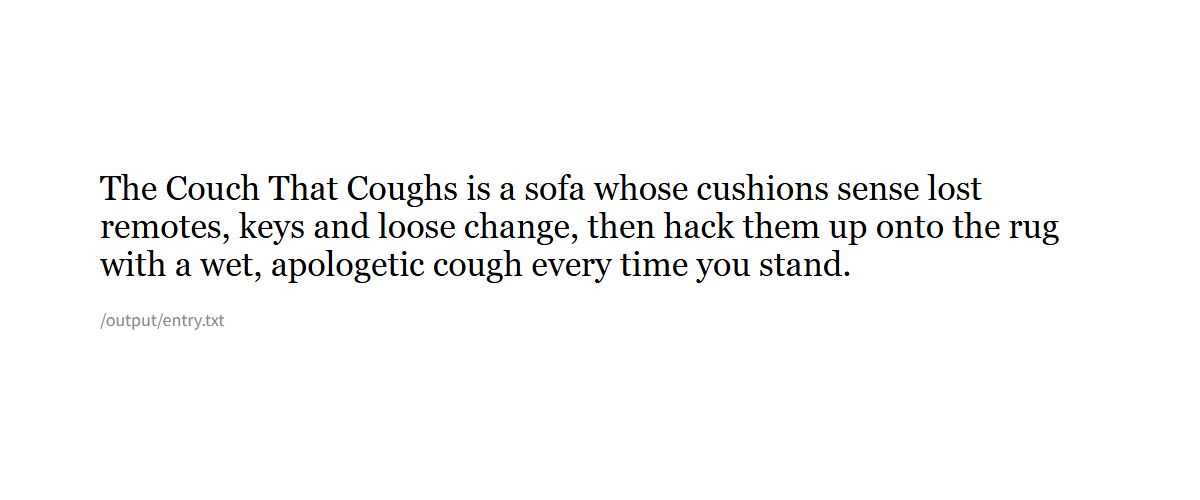
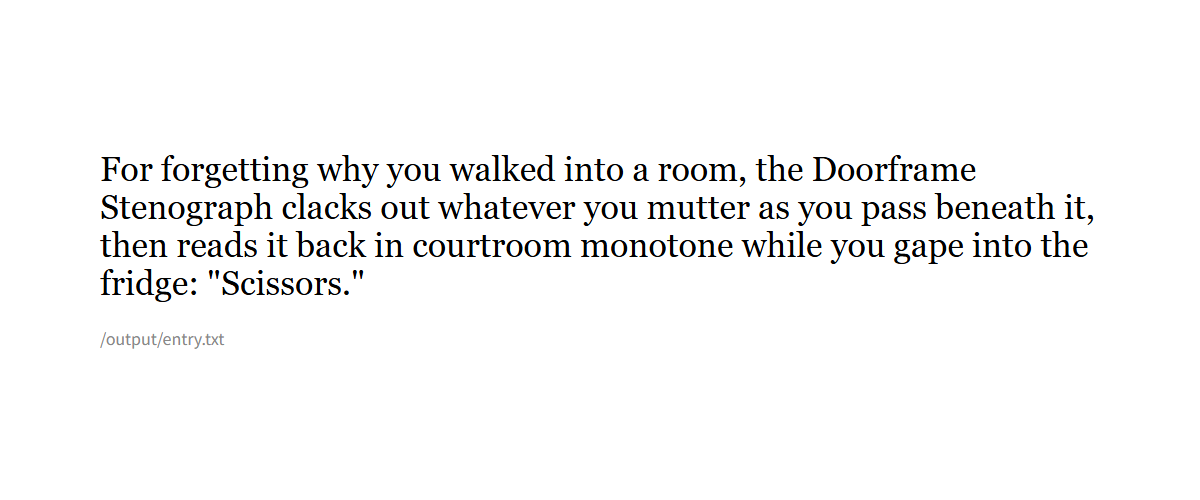
Pitch: The Doorframe Stenograph (forgetting why you walked into a room)

Changed region(s): [[0.0617, 0.3, 0.925, 0.6], [0.0617, 0.63, 0.185, 0.69]]

diff --git a/main.ts b/main.ts
@@ -2,7 +2,7 @@
 import { mkdirSync, writeFileSync } from "node:fs";
 
 const pitch =
-  "The Couch That Coughs is a sofa whose cushions sense lost remotes, keys and loose change, then hack them up onto the rug with a wet, apologetic cough every time you stand.";
+  "For forgetting why you walked into a room, the Doorframe Stenograph clacks out whatever you mutter as you pass beneath it, then reads it back in courtroom monotone while you gape into the fridge: \"Scissors.\"";
 
 mkdirSync("/output", { recursive: true });
 writeFileSync("/output/entry.txt", pitch, "utf8");
